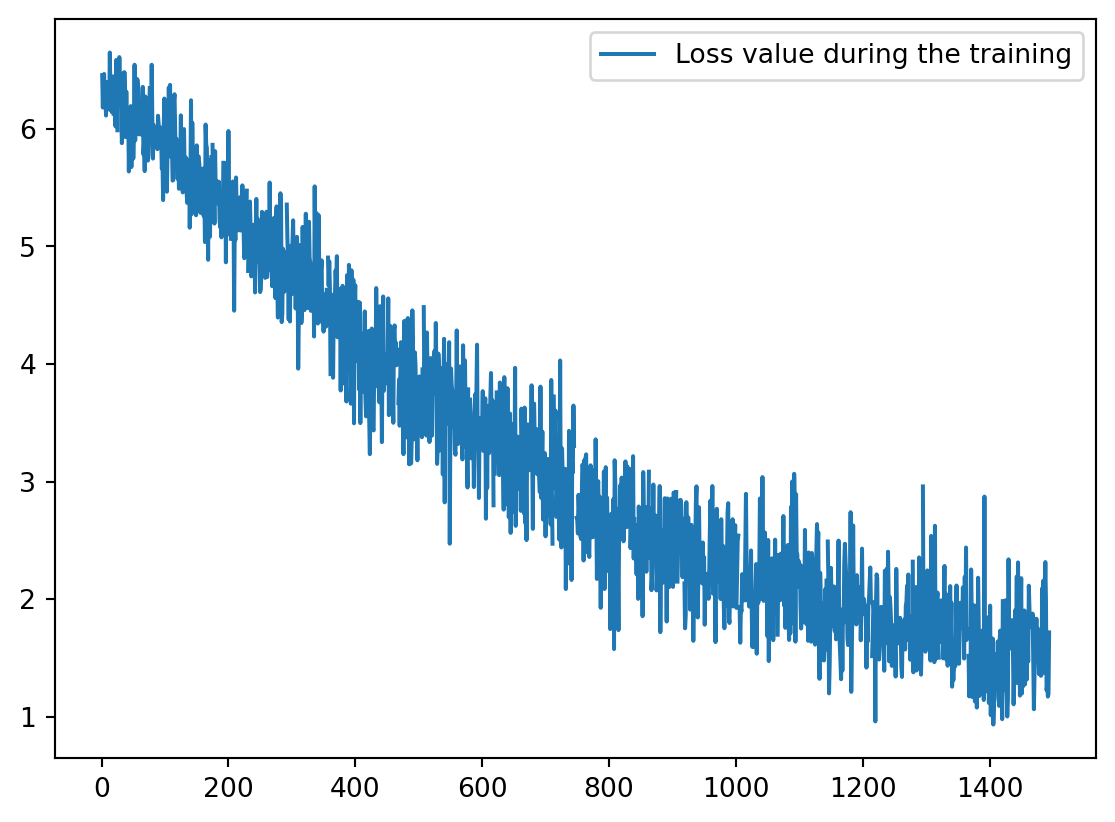
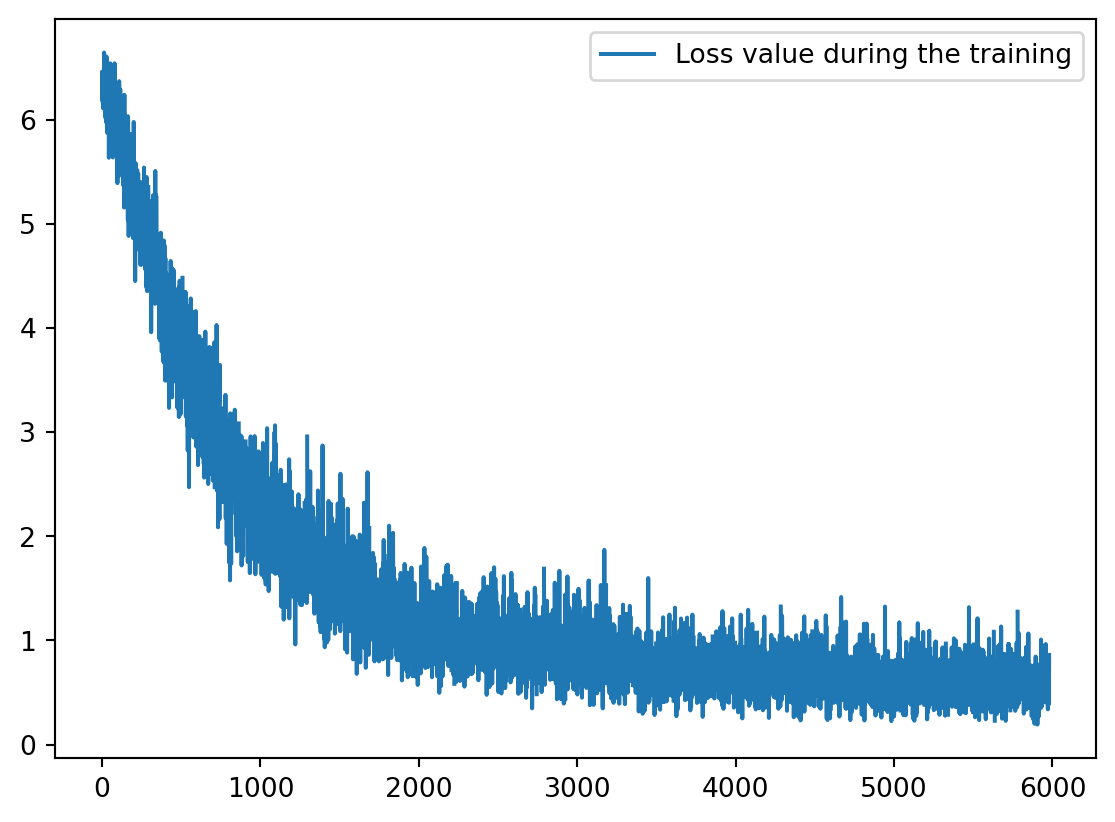
update site

diff --git a/_site/ai/jxai/jxai_training.html b/_site/ai/jxai/jxai_training.html
@@ -922,7 +922,7 @@ gtag('config', 'G-7E8D6VP6FH', { 'anonymize_ip': true});
 <p>To be replaced by actual path: in our training cluster, the <code>base_dir</code> is at <code>/project/def-sponsor00/nabirds</code>:</p>
 <div class="code-copy-outer-scaffold"><div class="sourceCode" id="cb2"><pre class="sourceCode python code-with-copy"><code class="sourceCode python"><span id="cb2-1"><a href="#cb2-1" aria-hidden="true" tabindex="-1"></a>base_dir <span class="op">=</span> <span class="st">'/project/def-sponsor00/nabirds'</span></span></code></pre></div><button title="Copy to Clipboard" class="code-copy-button"><i class="bi"></i></button></div>
 </div>
-<div id="f62a65ad" class="cell" data-execution_count="3">
+<div id="7d063408" class="cell" data-execution_count="2">
 <div class="code-copy-outer-scaffold"><div class="sourceCode cell-code" id="cb3"><pre class="sourceCode python code-with-copy"><code class="sourceCode python"><span id="cb3-1"><a href="#cb3-1" aria-hidden="true" tabindex="-1"></a><span class="im">import</span> os</span>
 <span id="cb3-2"><a href="#cb3-2" aria-hidden="true" tabindex="-1"></a><span class="im">import</span> polars <span class="im">as</span> pl</span>
 <span id="cb3-3"><a href="#cb3-3" aria-hidden="true" tabindex="-1"></a><span class="im">import</span> imageio.v3 <span class="im">as</span> iio</span>
@@ -1287,11 +1287,11 @@ gtag('config', 'G-7E8D6VP6FH', { 'anonymize_ip': true});
 <li>Epochs 15+: Often starts overfitting (unless you have a massive dataset or very strong augmentation).</li>
 </ul>
 <p>Let’s do 3 epochs:</p>
-<div id="eedda5a7" class="cell" data-execution_count="4">
+<div id="b3e74efc" class="cell" data-execution_count="3">
 <div class="code-copy-outer-scaffold"><div class="sourceCode cell-code" id="cb5"><pre class="sourceCode python code-with-copy"><code class="sourceCode python"><span id="cb5-1"><a href="#cb5-1" aria-hidden="true" tabindex="-1"></a>num_epochs <span class="op">=</span> <span class="dv">3</span></span></code></pre></div><button title="Copy to Clipboard" class="code-copy-button"><i class="bi"></i></button></div>
 </div>
 <p>The <strong>learning rate</strong> controls the size of the steps the optimizer takes in the direction of the gradient. You don’t want to overshoot the minimum, so it is a good idea to decrease the learning rate during training. We are doing this with an <a href="https://github.com/google-deepmind/optax">Optax</a> scheduler, reducing it linearly from 0.001 to 0.</p>
-<div id="3e80b48d" class="cell" data-execution_count="5">
+<div id="81eedcd7" class="cell" data-execution_count="4">
 <div class="code-copy-outer-scaffold"><div class="sourceCode cell-code" id="cb6"><pre class="sourceCode python code-with-copy"><code class="sourceCode python"><span id="cb6-1"><a href="#cb6-1" aria-hidden="true" tabindex="-1"></a><span class="im">import</span> optax</span>
 <span id="cb6-2"><a href="#cb6-2" aria-hidden="true" tabindex="-1"></a></span>
 <span id="cb6-3"><a href="#cb6-3" aria-hidden="true" tabindex="-1"></a>learning_rate <span class="op">=</span> <span class="fl">0.001</span></span>
@@ -1300,7 +1300,7 @@ gtag('config', 'G-7E8D6VP6FH', { 'anonymize_ip': true});
 <span id="cb6-6"><a href="#cb6-6" aria-hidden="true" tabindex="-1"></a>iterate_subsample <span class="op">=</span> np.linspace(<span class="dv">0</span>, num_epochs <span class="op">*</span> total_steps, <span class="dv">100</span>)</span></code></pre></div><button title="Copy to Clipboard" class="code-copy-button"><i class="bi"></i></button></div>
 </div>
 <p>We can plot the learning rate schedule:</p>
-<div id="60adceb6" class="cell" data-execution_count="6">
+<div id="6086d009" class="cell" data-execution_count="5">
 <div class="code-copy-outer-scaffold"><div class="sourceCode cell-code" id="cb7"><pre class="sourceCode python code-with-copy"><code class="sourceCode python"><span id="cb7-1"><a href="#cb7-1" aria-hidden="true" tabindex="-1"></a><span class="im">import</span> matplotlib.pyplot <span class="im">as</span> plt</span>
 <span id="cb7-2"><a href="#cb7-2" aria-hidden="true" tabindex="-1"></a></span>
 <span id="cb7-3"><a href="#cb7-3" aria-hidden="true" tabindex="-1"></a>plt.plot(</span>
@@ -1323,16 +1323,16 @@ gtag('config', 'G-7E8D6VP6FH', { 'anonymize_ip': true});
 </div>
 </div>
 <p>The <strong>momentum</strong> controls the inertia of the optimizer. It helps accelerate the optimizer in the right direction and dampens oscillations (instead of using only the current gradient to update weights, momentum adds a fraction of the previous update factor to the current one. So if the gradient keeps pointing in the same direction, the momentum increases the speed of updates. If the gradient bounces back and forth, the momentum decreases the speed of updates).</p>
-<div id="e3589bf1" class="cell" data-execution_count="7">
+<div id="931e170f" class="cell" data-execution_count="6">
 <div class="code-copy-outer-scaffold"><div class="sourceCode cell-code" id="cb8"><pre class="sourceCode python code-with-copy"><code class="sourceCode python"><span id="cb8-1"><a href="#cb8-1" aria-hidden="true" tabindex="-1"></a>momentum <span class="op">=</span> <span class="fl">0.8</span></span></code></pre></div><button title="Copy to Clipboard" class="code-copy-button"><i class="bi"></i></button></div>
 </div>
 <p>Finally, we pass our learning rate schedule and momentum to a <a href="https://en.wikipedia.org/wiki/Stochastic_gradient_descent">stochastic gradient descent</a> function from <a href="https://github.com/google-deepmind/optax">Optax</a> and create our optimizer:</p>
-<div id="53b51290" class="cell" data-execution_count="8">
+<div id="dd9f9094" class="cell" data-execution_count="7">
 <div class="code-copy-outer-scaffold"><div class="sourceCode cell-code" id="cb9"><pre class="sourceCode python code-with-copy"><code class="sourceCode python"><span id="cb9-1"><a href="#cb9-1" aria-hidden="true" tabindex="-1"></a>optimizer <span class="op">=</span> nnx.ModelAndOptimizer(model, optax.sgd(lr_schedule, momentum, nesterov<span class="op">=</span><span class="va">True</span>))</span></code></pre></div><button title="Copy to Clipboard" class="code-copy-button"><i class="bi"></i></button></div>
 </div>
 <section id="loss-function" class="level3">
 <h3 class="anchored" data-anchor-id="loss-function">Loss function</h3>
-<div id="4ea0cef1" class="cell" data-execution_count="9">
+<div id="71640034" class="cell" data-execution_count="8">
 <div class="code-copy-outer-scaffold"><div class="sourceCode cell-code" id="cb10"><pre class="sourceCode python code-with-copy"><code class="sourceCode python"><span id="cb10-1"><a href="#cb10-1" aria-hidden="true" tabindex="-1"></a><span class="kw">def</span> compute_losses_and_logits(model: nnx.Module, imgs: jax.Array, species: jax.Array):</span>
 <span id="cb10-2"><a href="#cb10-2" aria-hidden="true" tabindex="-1"></a>    logits <span class="op">=</span> model(imgs)</span>
 <span id="cb10-3"><a href="#cb10-3" aria-hidden="true" tabindex="-1"></a></span>
@@ -1345,7 +1345,7 @@ gtag('config', 'G-7E8D6VP6FH', { 'anonymize_ip': true});
 </section>
 <section id="define-train-and-eval-steps" class="level2">
 <h2 class="anchored" data-anchor-id="define-train-and-eval-steps">Define train and eval steps</h2>
-<div id="87db7fa1" class="cell" data-execution_count="10">
+<div id="50795788" class="cell" data-execution_count="9">
 <div class="code-copy-outer-scaffold"><div class="sourceCode cell-code" id="cb11"><pre class="sourceCode python code-with-copy"><code class="sourceCode python"><span id="cb11-1"><a href="#cb11-1" aria-hidden="true" tabindex="-1"></a><span class="at">@nnx.jit</span>              <span class="co"># To JIT compile and automatically use GPU/TPU if available</span></span>
 <span id="cb11-2"><a href="#cb11-2" aria-hidden="true" tabindex="-1"></a><span class="kw">def</span> train_step(</span>
 <span id="cb11-3"><a href="#cb11-3" aria-hidden="true" tabindex="-1"></a>    model: nnx.Module, optimizer: nnx.Optimizer, imgs: np.ndarray, species_id: np.ndarray</span>
@@ -1379,7 +1379,7 @@ gtag('config', 'G-7E8D6VP6FH', { 'anonymize_ip': true});
 </section>
 <section id="metrics" class="level2">
 <h2 class="anchored" data-anchor-id="metrics">Metrics</h2>
-<div id="4ffee662" class="cell" data-execution_count="11">
+<div id="a87cd06c" class="cell" data-execution_count="10">
 <div class="code-copy-outer-scaffold"><div class="sourceCode cell-code" id="cb12"><pre class="sourceCode python code-with-copy"><code class="sourceCode python"><span id="cb12-1"><a href="#cb12-1" aria-hidden="true" tabindex="-1"></a>eval_metrics <span class="op">=</span> nnx.MultiMetric(</span>
 <span id="cb12-2"><a href="#cb12-2" aria-hidden="true" tabindex="-1"></a>    loss<span class="op">=</span>nnx.metrics.Average(<span class="st">'loss'</span>),</span>
 <span id="cb12-3"><a href="#cb12-3" aria-hidden="true" tabindex="-1"></a>    accuracy<span class="op">=</span>nnx.metrics.Accuracy(),</span>
@@ -1397,7 +1397,7 @@ gtag('config', 'G-7E8D6VP6FH', { 'anonymize_ip': true});
 </section>
 <section id="training-and-evaluation-functions" class="level2">
 <h2 class="anchored" data-anchor-id="training-and-evaluation-functions">Training and evaluation functions</h2>
-<div id="d69241d3" class="cell" data-execution_count="12">
+<div id="559dcf7a" class="cell" data-execution_count="11">
 <div class="code-copy-outer-scaffold"><div class="sourceCode cell-code" id="cb13"><pre class="sourceCode python code-with-copy"><code class="sourceCode python"><span id="cb13-1"><a href="#cb13-1" aria-hidden="true" tabindex="-1"></a><span class="im">import</span> tqdm</span>
 <span id="cb13-2"><a href="#cb13-2" aria-hidden="true" tabindex="-1"></a></span>
 <span id="cb13-3"><a href="#cb13-3" aria-hidden="true" tabindex="-1"></a>bar_format <span class="op">=</span> <span class="st">'</span><span class="sc">{desc}</span><span class="st">[</span><span class="sc">{n_fmt}</span><span class="st">/</span><span class="sc">{total_fmt}</span><span class="st">]</span><span class="sc">{postfix}</span><span class="st"> [</span><span class="sc">{elapsed}</span><span class="st">&lt;</span><span class="sc">{remaining}</span><span class="st">]'</span></span>
@@ -1476,7 +1476,7 @@ gtag('config', 'G-7E8D6VP6FH', { 'anonymize_ip': true});
 <h2 class="anchored" data-anchor-id="plot-metrics">Plot metrics</h2>
 <p>Let’s plot the training metrics.</p>
 <p>Evolution of training loss:</p>
-<div id="8b8c9a68" class="cell" data-execution_count="14">
+<div id="c3d0738d" class="cell" data-execution_count="13">
 <div class="code-copy-outer-scaffold"><div class="sourceCode cell-code" id="cb18"><pre class="sourceCode python code-with-copy"><code class="sourceCode python"><span id="cb18-1"><a href="#cb18-1" aria-hidden="true" tabindex="-1"></a>plt.plot(train_metrics_history[<span class="st">'train_loss'</span>], label<span class="op">=</span><span class="st">'Loss value during the training'</span>)</span>
 <span id="cb18-2"><a href="#cb18-2" aria-hidden="true" tabindex="-1"></a>plt.legend()</span></code></pre></div><button title="Copy to Clipboard" class="code-copy-button"><i class="bi"></i></button></div>
 <div class="cell-output cell-output-display">
@@ -1490,7 +1490,7 @@ gtag('config', 'G-7E8D6VP6FH', { 'anonymize_ip': true});
 <p>The loss decreased in a very jagged fashion due to my small batch size. With more memory and a bigger batch size, the descent would have been smoother. To get a smoother descent with such small batches, I could have increased the momentum or calculated the metrics for several batches before passing them to the next step.</p>
 <p>I also had some NaN (not a number) for the loss at the start of training. This didn’t matter because the training kept going and after a bit of training they became less frequent and eventually disappeared. To avoid this, I could have started with a lower learning rate.</p>
 <p>Evolution of validation loss and accuracy:</p>
-<div id="8ccc54cc" class="cell" data-execution_count="15">
+<div id="8fd45ca5" class="cell" data-execution_count="14">
 <div class="code-copy-outer-scaffold"><div class="sourceCode cell-code" id="cb19"><pre class="sourceCode python code-with-copy"><code class="sourceCode python"><span id="cb19-1"><a href="#cb19-1" aria-hidden="true" tabindex="-1"></a>fig, axs <span class="op">=</span> plt.subplots(<span class="dv">1</span>, <span class="dv">2</span>, figsize<span class="op">=</span>(<span class="dv">8</span>, <span class="dv">8</span>))</span>
 <span id="cb19-2"><a href="#cb19-2" aria-hidden="true" tabindex="-1"></a>axs[<span class="dv">0</span>].set_title(<span class="st">'Loss value on validation set'</span>)</span>
 <span id="cb19-3"><a href="#cb19-3" aria-hidden="true" tabindex="-1"></a>axs[<span class="dv">0</span>].plot(eval_metrics_history[<span class="st">'val_loss'</span>])</span>
@@ -1511,39 +1511,23 @@ gtag('config', 'G-7E8D6VP6FH', { 'anonymize_ip': true});
 </section>
 <section id="test-a-few-samples" class="level2">
 <h2 class="anchored" data-anchor-id="test-a-few-samples">Test a few samples</h2>
-<div id="9d4d7f1e" class="cell" data-execution_count="16">
-<div class="cell-output cell-output-error">
-<div class="ansi-escaped-output">
-<pre><span class="ansi-bright-red-fg">---------------------------------------------------------------------------</span>
-<span class="ansi-bright-red-fg">NameError</span>                                 Traceback (most recent call last)
-<span class="ansi-bright-cyan-fg">Cell</span><span class="ansi-bright-cyan-fg"> </span><span class="ansi-green-fg">In[15]</span><span class="ansi-green-fg">, line 16</span>
-<span class="ansi-bright-green-fg">     13</span> <span class="ansi-bright-white-fg">CHECKPOINT_DIR</span><span class="ansi-bright-white-fg"> </span><span style="color:rgb(255,95,135)">=</span><span class="ansi-bright-white-fg"> </span><span class="ansi-bright-white-fg">os</span><span style="color:rgb(255,95,135)">.</span><span class="ansi-bright-white-fg">path</span><span style="color:rgb(255,95,135)">.</span><span class="ansi-bright-white-fg">abspath</span><span class="ansi-bright-white-fg">(</span><span style="color:rgb(215,215,135)">'</span><span style="color:rgb(215,215,135)">checkpoint</span><span style="color:rgb(215,215,135)">'</span><span class="ansi-bright-white-fg">)</span>
-<span class="ansi-bright-green-fg">     14</span> <span class="ansi-bright-white-fg">METADATA_PATH</span><span class="ansi-bright-white-fg"> </span><span style="color:rgb(255,95,135)">=</span><span class="ansi-bright-white-fg"> </span><span style="color:rgb(215,215,135)">'</span><span style="color:rgb(215,215,135)">metadata.parquet</span><span style="color:rgb(215,215,135)">'</span>
-<span class="ansi-bright-green-fg">---&gt; </span><span class="ansi-bright-green-fg">16</span> <span style="color:rgb(95,215,255)">def</span><span class="ansi-bright-white-fg"> </span><span style="color:rgb(175,215,0)">load_model</span><span class="ansi-bright-white-fg">(</span><span class="ansi-bright-white-fg">checkpoint_dir</span><span style="color:rgb(255,95,135)">=</span><span class="ansi-bright-white-fg ansi-yellow-bg">CHECKPOINT</span><span class="ansi-bright-white-fg">)</span><span class="ansi-bright-white-fg">:</span>
-<span class="ansi-bright-green-fg">     17</span> <span class="ansi-bright-white-fg">    </span><span style="color:rgb(215,215,135)">"""Loads the model from the checkpoint directory."""</span>
-<span class="ansi-bright-green-fg">     18</span> <span class="ansi-bright-white-fg">    </span><span class="ansi-bright-white-fg">print</span><span class="ansi-bright-white-fg">(</span><span style="color:rgb(215,215,135)">f</span><span style="color:rgb(215,215,135)">"</span><span style="color:rgb(215,215,135)">Loading model from </span><span style="color:rgb(215,215,135)">{</span><span class="ansi-bright-white-fg">checkpoint_dir</span><span style="color:rgb(215,215,135)">}</span><span style="color:rgb(215,215,135)">...</span><span style="color:rgb(215,215,135)">"</span><span class="ansi-bright-white-fg">)</span>
-
-<span class="ansi-bright-red-fg">NameError</span>: name 'CHECKPOINT' is not defined</pre>
-</div>
-</div>
-</div>
 <p>We can now run inference on a few test images.</p>
 <p>Select a subset of test images and their labels:</p>
-<div id="fc3fc4fd" class="cell" data-execution_count="17">
+<div id="49dbd09f" class="cell" data-execution_count="16">
 <div class="code-copy-outer-scaffold"><div class="sourceCode cell-code" id="cb20"><pre class="sourceCode python code-with-copy"><code class="sourceCode python"><span id="cb20-1"><a href="#cb20-1" aria-hidden="true" tabindex="-1"></a>test_indices <span class="op">=</span> [<span class="dv">250</span>, <span class="dv">500</span>, <span class="dv">750</span>, <span class="dv">1000</span>]</span>
 <span id="cb20-2"><a href="#cb20-2" aria-hidden="true" tabindex="-1"></a></span>
 <span id="cb20-3"><a href="#cb20-3" aria-hidden="true" tabindex="-1"></a>test_images <span class="op">=</span> jnp.array([nabirds_val[i][<span class="st">'img'</span>] <span class="cf">for</span> i <span class="kw">in</span> test_indices])</span>
 <span id="cb20-4"><a href="#cb20-4" aria-hidden="true" tabindex="-1"></a>expected_labels <span class="op">=</span> [nabirds_val[i][<span class="st">'species_name'</span>] <span class="cf">for</span> i <span class="kw">in</span> test_indices]</span></code></pre></div><button title="Copy to Clipboard" class="code-copy-button"><i class="bi"></i></button></div>
 </div>
 <p>Run the model to get the predictions for this subset:</p>
-<div id="47177cb4" class="cell" data-execution_count="18">
+<div id="bcaa9c64" class="cell" data-execution_count="17">
 <div class="code-copy-outer-scaffold"><div class="sourceCode cell-code" id="cb21"><pre class="sourceCode python code-with-copy"><code class="sourceCode python"><span id="cb21-1"><a href="#cb21-1" aria-hidden="true" tabindex="-1"></a>model.<span class="bu">eval</span>()</span>
 <span id="cb21-2"><a href="#cb21-2" aria-hidden="true" tabindex="-1"></a>preds <span class="op">=</span> model(test_images)</span>
 <span id="cb21-3"><a href="#cb21-3" aria-hidden="true" tabindex="-1"></a>probas <span class="op">=</span> nnx.softmax(preds, axis<span class="op">=</span><span class="dv">1</span>)</span>
 <span id="cb21-4"><a href="#cb21-4" aria-hidden="true" tabindex="-1"></a>pred_labels <span class="op">=</span> probas.argmax(axis<span class="op">=</span><span class="dv">1</span>)</span></code></pre></div><button title="Copy to Clipboard" class="code-copy-button"><i class="bi"></i></button></div>
 </div>
 <p>We need to define a translation function to get the species names from the species ids for the predictions:</p>
-<div id="89419489" class="cell" data-execution_count="19">
+<div id="11fc3bda" class="cell" data-execution_count="18">
 <div class="code-copy-outer-scaffold"><div class="sourceCode cell-code" id="cb22"><pre class="sourceCode python code-with-copy"><code class="sourceCode python"><span id="cb22-1"><a href="#cb22-1" aria-hidden="true" tabindex="-1"></a><span class="kw">def</span> translator(df, species_id):</span>
 <span id="cb22-2"><a href="#cb22-2" aria-hidden="true" tabindex="-1"></a>    species_name <span class="op">=</span> df.unique(subset<span class="op">=</span><span class="st">'species_id'</span>).<span class="bu">filter</span>(</span>
 <span id="cb22-3"><a href="#cb22-3" aria-hidden="true" tabindex="-1"></a>        pl.col(<span class="st">'species_id'</span>) <span class="op">==</span> species_id</span>
@@ -1552,7 +1536,7 @@ gtag('config', 'G-7E8D6VP6FH', { 'anonymize_ip': true});
 <span id="cb22-6"><a href="#cb22-6" aria-hidden="true" tabindex="-1"></a>    <span class="cf">return</span> species_name</span></code></pre></div><button title="Copy to Clipboard" class="code-copy-button"><i class="bi"></i></button></div>
 </div>
 <p>Let’s print the subset with their predicted vs expected labels:</p>
-<div id="68dbd796" class="cell" data-execution_count="20">
+<div id="0d737c76" class="cell" data-execution_count="19">
 <div class="code-copy-outer-scaffold"><div class="sourceCode cell-code" id="cb23"><pre class="sourceCode python code-with-copy"><code class="sourceCode python"><span id="cb23-1"><a href="#cb23-1" aria-hidden="true" tabindex="-1"></a>num_samples <span class="op">=</span> <span class="bu">len</span>(test_indices)</span>
 <span id="cb23-2"><a href="#cb23-2" aria-hidden="true" tabindex="-1"></a></span>
 <span id="cb23-3"><a href="#cb23-3" aria-hidden="true" tabindex="-1"></a>fig, axs <span class="op">=</span> plt.subplots(<span class="dv">1</span>, num_samples, figsize<span class="op">=</span>(<span class="dv">7</span>, <span class="dv">8</span>))</span>
